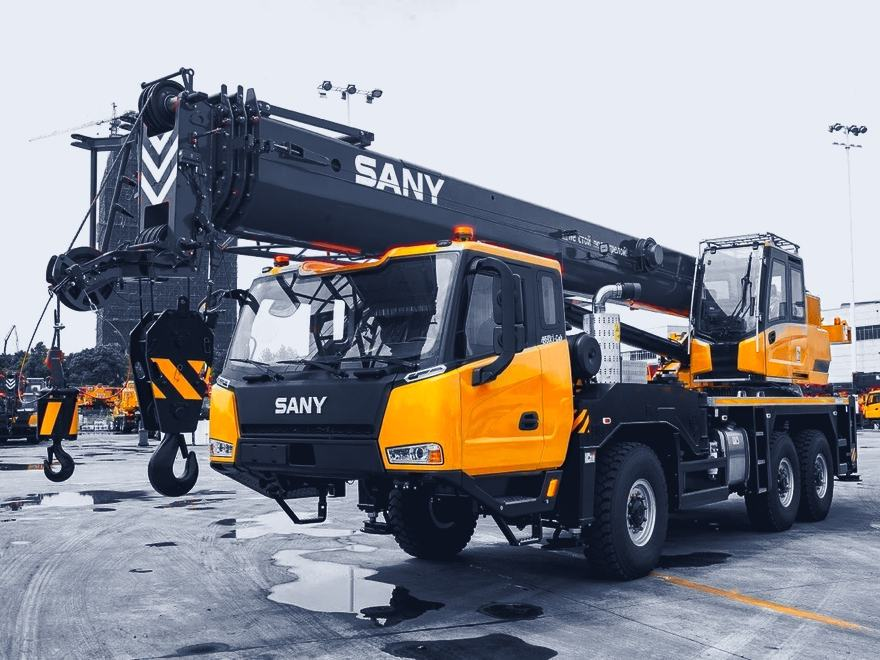
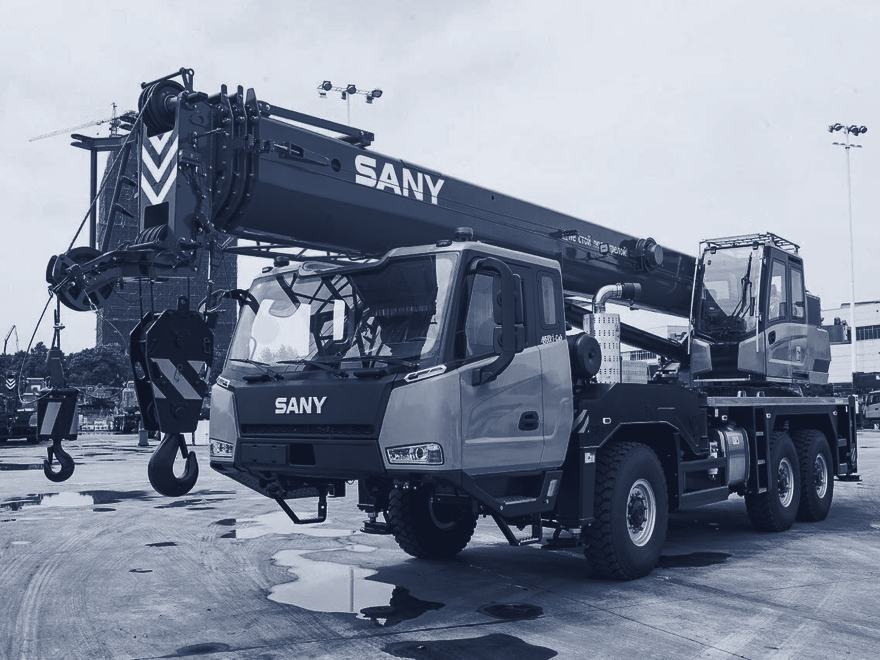
Правки 13.10 (2): единый тон фото, логотип по низу знака, подпись роли, фото в кабинетах

diff --git a/src/pages/crm/Dashboard.tsx b/src/pages/crm/Dashboard.tsx
@@ -3,7 +3,7 @@ import { useNavigate } from 'react-router-dom'
 import { AlertOctagon, AlertTriangle, ArrowRight, Bell, CalendarDays, Fuel, Handshake, Info, Plus, Truck, Users, Wallet, Wrench } from 'lucide-react'
 import type { CrmPageProps } from './types'
 import { isAdmin } from './types'
-import { Avatar, BarChart, Donut, Field, Modal, PageHead, Progress, Stat, StatusBadge, dateShort, money, time, useToast } from '../../ui'
+import { Avatar, BarChart, Donut, Field, Modal, PageHead, Progress, Stat, StatusBadge, dateShort, money, time, useToast, equipmentPhoto } from '../../ui'
 import { company, drivers, emp, eq, equipment, managers, orders, site } from '../../data/mock'
 import { calendar, crmEqStatus, expenseItems, finMonths, fuelReqs, notices, toRequests, userByRole, type CalEvent } from '../../data/crm-a'
 import './crm-a.css'
@@ -43,7 +43,7 @@ export default function Dashboard({ role }: CrmPageProps) {
 
   return (
     <div className="stack">
-      <PageHead title="Дашборд" sub={`Вторник, 13 октября 2026 · ${me.name.split(' ').slice(0, 2).join(' ')}`}
+      <PageHead photo={equipmentPhoto('crane', 'crm')} title="Дашборд" sub={`Вторник, 13 октября 2026 · ${me.name.split(' ').slice(0, 2).join(' ')}`}
         actions={<><button className="btn btn-secondary" onClick={() => go('callcenter')}><Plus />Новая заявка</button><button className="btn btn-primary" onClick={() => go('equipment')}><Truck />Назначить технику</button></>} />
 
       <div className="ca-stats">
@@ -62,7 +62,7 @@ export default function Dashboard({ role }: CrmPageProps) {
                 const c = company(o.clientId)
                 return (
                   <div key={o.id} className="ca-li click" onClick={() => go('tenants')}>
-                    <span className="mono muted hide-mobile" style={{ fontSize: 12, width: 60 }}>{o.number}</span>
+                    <img className="eq-thumb" src={equipmentPhoto(eq(o.equipmentId)?.category ?? 'excavator', o.equipmentId)} alt="" />
                     <div className="grow"><div className="t">{eq(o.equipmentId)?.title} → {site(o.siteId)?.name}</div><div className="s">{c?.name} · {emp(o.driverId)?.name.split(' ').slice(0, 2).join(' ')} · {dateShort(o.date)}, {o.start}</div></div>
                     {c?.critical && <span className="ca-flag hide-mobile"><AlertTriangle />долг</span>}
                     <span className="tnum" style={{ fontWeight: 600 }}>{money(o.cost)}</span>

diff --git a/src/pages/partner/Dashboard.tsx b/src/pages/partner/Dashboard.tsx
@@ -1,6 +1,6 @@
 import { Link, useNavigate } from 'react-router-dom'
 import { ArrowRight, CalendarClock, Gauge, Plus, Truck, Wallet } from 'lucide-react'
-import { Avatar, DataTable, Donut, EquipmentArt, LineChart, PageHead, Progress, Sparkline, Stat, StatusBadge, dateShort, money, plural, type Col } from '../../ui'
+import { Avatar, DataTable, Donut, EquipmentArt, LineChart, PageHead, Progress, Sparkline, Stat, StatusBadge, dateShort, money, plural, type Col, brandPhoto, EqThumb } from '../../ui'
 import { partnerDrivers, partnerRevenue, type PartnerDriver } from '../../data/cabinet'
 import { payoutBalance, usePartner } from './ctx'
 import { inService, loadOf, revenueOf, trendOf } from './util'
@@ -21,7 +21,7 @@ export default function Dashboard() {
 
   const dcols: Col<PartnerDriver>[] = [
     { key: 'n', title: 'Водитель', render: (d) => <div className="row" style={{ gap: 10, flexWrap: 'nowrap' }}><Avatar name={d.name} size="sm" /><div><div style={{ fontWeight: 600 }}>{d.name}</div><div className="muted" style={{ fontSize: 12 }}>{d.phone}</div></div></div> },
-    { key: 'e', title: 'Техника', render: (d) => eqs.find((e) => e.id === d.equipmentId)?.title ?? '—', hideMobile: true },
+    { key: 'e', title: 'Техника', render: (d) => { const e = eqs.find((x) => x.id === d.equipmentId); return <EqThumb eq={e}>{e?.title ?? '—'}</EqThumb> }, hideMobile: true },
     { key: 'o', title: 'Заказы', render: (d) => <span className="tnum">{d.orders}</span>, align: 'r' },
     { key: 'r', title: 'Рейтинг', render: (d) => <b className="tnum">★ {d.rating.toFixed(1)}</b>, align: 'r', nowrap: true },
     { key: 'a', title: 'Адрес сейчас', render: (d) => <span className="dim" style={{ fontSize: 13 }}>{d.address}</span>, hideMobile: true },
@@ -30,7 +30,7 @@ export default function Dashboard() {
 
   return (
     <>
-      <PageHead title="Добрый день, Игорь Михайлович" sub="ООО «ТехноПарк Аренда» · партнёр Гиперок с 2024 года · рейтинг ★ 4.9"
+      <PageHead photo={brandPhoto('owners')} title="Добрый день, Игорь Михайлович" sub="ООО «ТехноПарк Аренда» · партнёр Гиперок с 2024 года · рейтинг ★ 4.9"
         actions={<button className="btn btn-primary" onClick={() => nav('/partner/equipment?add=1')}><Plus />Добавить технику</button>} />
 
       <div className="grid g4">

diff --git a/src/pages/crm/Trips.tsx b/src/pages/crm/Trips.tsx
@@ -2,8 +2,7 @@ import { useMemo, useState } from 'react'
 import { AlertTriangle, CalendarClock, FileText, MapPin, Plus, Repeat, ShieldAlert, Star, Truck, UserCheck, Wrench } from 'lucide-react'
 import {
   Badge, DataTable, Drawer, Field, KV, Modal, PageHead, SearchInput, Seg, Stat, StatusBadge, Tabs,
-  date, dateShort, money, num, uid, useList, useToast, type Col,
-} from '../../ui'
+  date, dateShort, money, num, uid, useList, useToast, type Col, EqThumb } from '../../ui'
 import { categoryOne, workMode } from '../../data/types'
 import { emp, eq, equipment, site, sites, TODAY } from '../../data/mock'
 import { activeDrivers, isWeekend, modeMeta, trips as seed, tripEnd, type Attendance, type Trip, type TripMode, type TripStatus } from '../../data/crm-b'
@@ -61,7 +60,7 @@ export default function Trips({ role }: CrmPageProps) {
       <div><div className="cb-cell-main tnum">{dateShort(t.date)}{t.weekend && <span style={{ marginLeft: 6 }}><Badge tone="warn" plain>вых.</Badge></span>}</div>
         <div className="cb-cell-sub tnum">{t.mode === 'вахта' ? `с ${t.start}, ${t.days} дн.` : `${t.start}–${t.end}`}</div></div>
     ) },
-    { key: 'e', title: 'Техника', render: (t) => { const e = eq(t.equipmentId)!; return <div><div className="cb-cell-main">{e.title}</div><div className="cb-cell-sub">{categoryOne[e.category]} · <span className="mono">{e.plate}</span>{e.own ? '' : ' · привлечённая'}</div></div> } },
+    { key: 'e', title: 'Техника', render: (t) => { const e = eq(t.equipmentId)!; return <EqThumb eq={e}><div className="cb-cell-main">{e.title}</div><div className="cb-cell-sub">{categoryOne[e.category]} · <span className="mono">{e.plate}</span>{e.own ? '' : ' · привлечённая'}</div></EqThumb> } },
     { key: 'dr', title: 'Водитель', render: (t) => <div><div style={{ whiteSpace: 'nowrap' }}>{shortName(emp(t.driverId)?.name ?? '—')}</div><Badge tone={attTone[t.attendance]}>{t.attendance}</Badge></div> },
     { key: 's', title: 'Объект', hideMobile: true, render: (t) => { const s = site(t.siteId); return <div><div className="cb-cell-main">{s?.name}</div><div className="cb-cell-sub">{s?.address}</div></div> } },
     { key: 'h', title: 'Длительность', nowrap: true, hideMobile: true, render: (t) => <span className="tnum">{duration(t)}</span> },

diff --git a/src/layouts/Logo.tsx b/src/layouts/Logo.tsx
@@ -10,16 +10,21 @@ export function BrandMark({ size = 32, className }: { size?: number; className?:
   )
 }
 
-/* Название и подпись набраны одной ширины, как в брендбуке: textLength растягивает межбуквенный интервал. */
+/* Знак и надпись в одной системе координат: «ГИПЕРОК» начинается по верху слона, подпись стоит по его низу,
+   ширина названия и подписи одинаковая (textLength растягивает межбуквенный интервал). */
+const MARK = 40
+const GAP = 10
 const W = 176
 
-export function Logo({ inverted, to = '/', sub = true }: { inverted?: boolean; to?: string; sub?: boolean }) {
+export function Logo({ inverted, to = '/' }: { inverted?: boolean; to?: string }) {
   return (
     <Link to={to} className={`logo ${inverted ? 'inv' : ''}`} aria-label="Гиперок — на главную">
-      <BrandMark size={40} className="logo-mark" />
-      <svg className="logo-word" viewBox={`0 0 ${W} ${sub ? 40 : 28}`} width={W} height={sub ? 40 : 28} aria-hidden>
-        <text x="0" y="25" textLength={W} lengthAdjust="spacing" className="logo-name">ГИПЕРОК</text>
-        {sub && <text x="0" y="38" textLength={W} lengthAdjust="spacing" className="logo-sub">АРЕНДА СПЕЦТЕХНИКИ И ГРУЗОПЕРЕВОЗКИ</text>}
+      <svg className="logo-svg" viewBox={`0 0 ${MARK + GAP + W} ${MARK}`} width={MARK + GAP + W} height={MARK} aria-hidden>
+        <svg x="0" y="0" width={MARK} height={MARK} viewBox={MARK_VIEWBOX} className="logo-mark">
+          <path d={MARK_PATH} fill="currentColor" fillRule="evenodd" />
+        </svg>
+        <text x={MARK + GAP} y="24.6" textLength={W} lengthAdjust="spacing" className="logo-name">ГИПЕРОК</text>
+        <text x={MARK + GAP} y="39.6" textLength={W} lengthAdjust="spacing" className="logo-sub">АРЕНДА СПЕЦТЕХНИКИ И ГРУЗОПЕРЕВОЗКИ</text>
       </svg>
     </Link>
   )

diff --git a/src/styles/components.css b/src/styles/components.css
@@ -188,3 +188,27 @@
 /* ---------- Charts ---------- */
 .chart text { fill: var(--fg-3); font-size: 11px; font-family: var(--font-body); }
 .chart .grid-line { stroke: var(--line); }
+
+/* Фото-шапка дашбордов: синий блок, справа фото техники в фирменном тоне */
+.page-hero { position: relative; display: grid; grid-template-columns: minmax(0, 1fr) minmax(0, 46%); min-height: 184px; margin-bottom: 20px;
+  background: var(--ink); color: var(--ink-fg); border-radius: var(--r-lg); overflow: hidden; isolation: isolate; }
+.page-hero-body { padding: 28px 30px; display: flex; flex-direction: column; justify-content: center; gap: 6px; z-index: 1; }
+.page-hero h1 { font-size: clamp(22px, 2.6vw, 30px); font-weight: 700; color: inherit; }
+.page-hero p { color: var(--ink-fg-2); }
+.page-hero-actions { margin-top: 14px; }
+.page-hero-actions .btn-primary { background: var(--accent); color: #0f1626; }
+.page-hero-actions .btn-secondary { background: transparent; color: var(--ink-fg); border-color: color-mix(in srgb, var(--ink-fg) 28%, transparent); }
+.page-hero-photo { position: relative; }
+.page-hero-photo img { position: absolute; inset: 0; width: 100%; height: 100%; object-fit: cover; }
+.page-hero-photo::before { content: ''; position: absolute; inset: 0; z-index: 1; background: linear-gradient(90deg, var(--ink) 0%, color-mix(in srgb, var(--ink) 0%, transparent) 42%); }
+@media (max-width: 760px) {
+  .page-hero { grid-template-columns: 1fr; }
+  .page-hero-photo { height: 150px; order: -1; }
+  .page-hero-photo::before { background: linear-gradient(0deg, var(--ink) 0%, transparent 60%); }
+  .page-hero-body { padding: 4px 20px 22px; }
+}
+
+/* Миниатюры техники в таблицах */
+.eq-thumb-cell { display: inline-flex; align-items: center; gap: 10px; min-width: 0; }
+.eq-thumb { width: 52px; height: 39px; flex: none; object-fit: cover; border-radius: 8px; background: var(--surface-3); }
+.eq-thumb-t { min-width: 0; }

diff --git a/src/pages/crm/Equipment.tsx b/src/pages/crm/Equipment.tsx
@@ -4,8 +4,7 @@ import type { CrmPageProps, CrmRole } from './types'
 import { isAdmin } from './types'
 import {
   DataTable, Drawer, EquipmentArt, Field, KV, Modal, PageHead, Progress, SearchInput, Seg, Stat, StatusBadge, Tabs,
-  date, dateShort, money, num, time, uid, useList, useToast, type Col,
-} from '../../ui'
+  date, dateShort, money, num, time, uid, useList, useToast, type Col, EqThumb } from '../../ui'
 import { companies, company, drivers, emp, equipment, site, sites } from '../../data/mock'
 import { categoryLabels, categoryOne, type Equipment, type EquipmentCategory } from '../../data/types'
 import { crmEqStatus, eqFinance, eqNotes, repairs, toRequests, type ToDecision, type ToRequest } from '../../data/crm-a'
@@ -193,7 +192,7 @@ export default function EquipmentPage({ role }: CrmPageProps) {
   const toRows = tos.rows.filter((t) => t.stage === toTab)
   const toCols: Col<ToRequest>[] = [
     { key: 'd', title: 'Дата', nowrap: true, render: (t) => <span className="tnum">{dateShort(t.created)}, {time(t.created)}</span> },
-    { key: 'e', title: 'Техника', render: (t) => { const e = list.rows.find((x) => x.id === t.eqId); return <div><b>{e?.title}</b><div className="muted mono" style={{ fontSize: 12 }}>{e?.plate}</div></div> } },
+    { key: 'e', title: 'Техника', render: (t) => { const e = list.rows.find((x) => x.id === t.eqId); return <EqThumb eq={e}><b>{e?.title}</b><div className="muted mono" style={{ fontSize: 12 }}>{e?.plate}</div></EqThumb> } },
     { key: 'p', title: 'Проблема', hideMobile: true, render: (t) => <span style={{ fontSize: 13 }}>{t.problem}</span> },
     { key: 'u', title: 'Срочность', render: (t) => <span className={`badge ${t.urgency === 'Аварийно' ? 'badge-bad' : t.urgency === 'Срочно' ? 'badge-warn' : 'badge-info'}`}>{t.urgency}</span> },
     { key: 'm', title: 'Механик', hideMobile: true, render: (t) => emp(t.mechanicId)?.name.split(' ').slice(0, 2).join(' ') },

diff --git a/src/pages/crm/Accounting.tsx b/src/pages/crm/Accounting.tsx
@@ -5,8 +5,7 @@ import {
 } from 'lucide-react'
 import {
   Badge, BarChart, DataTable, Donut, Drawer, Field, KV, Modal, PageHead, Progress, SearchInput, Seg, Stat, StatusBadge, Tabs,
-  date, dateShort, money, num, uid, useList, useToast, type Col,
-} from '../../ui'
+  date, dateShort, money, num, uid, useList, useToast, type Col, EqThumb } from '../../ui'
 import { categoryOne } from '../../data/types'
 import { companies, company, emp, eq, site, TODAY } from '../../data/mock'
 import {
@@ -77,7 +76,7 @@ function IncomeTab({ rows, onOpen }: { rows: Deal[]; onOpen: (id: string) => voi
   const cols: Col<Deal>[] = [
     { key: 'n', title: 'Сделка', nowrap: true, render: (d) => <div><div className="mono cb-cell-main">{d.number}</div><div className="cb-cell-sub">{dateShort(d.date)}</div></div> },
     { key: 'c', title: 'Клиент / объект', render: (d) => <div><div className="cb-cell-main">{company(d.clientId)?.name}</div><div className="cb-cell-sub">{site(d.siteId)?.name}</div></div> },
-    { key: 'e', title: 'Техника', hideMobile: true, render: (d) => <div><div>{eq(d.equipmentId)?.title}</div><Badge tone={d.own ? 'info' : 'accent'}>{d.own ? 'своя' : 'привлечённая'}</Badge></div> },
+    { key: 'e', title: 'Техника', hideMobile: true, render: (d) => <EqThumb eq={eq(d.equipmentId)}><div>{eq(d.equipmentId)?.title}</div><Badge tone={d.own ? 'info' : 'accent'}>{d.own ? 'своя' : 'привлечённая'}</Badge></EqThumb> },
     { key: 'h', title: 'План / факт, ч', nowrap: true, hideMobile: true, render: (d) => <span className="tnum">{d.planHours} / <b className={d.factHours > d.planHours ? 'cb-pos' : d.factHours < d.planHours ? 'cb-neg' : ''}>{d.factHours}</b></span> },
     { key: 'i', title: 'Доход', align: 'r', nowrap: true, render: (d) => <b className="tnum">{money(dealIncome(d))}</b> },
     { key: 'p', title: 'Оплата', render: (d) => <StatusBadge status={d.pay} /> },

diff --git a/src/pages/crm/Fuel.tsx b/src/pages/crm/Fuel.tsx
@@ -1,7 +1,7 @@
 import { useState } from 'react'
 import { AlertTriangle, Ban, Camera, Check, CreditCard, Flag, Fuel as FuelIcon, Gauge, Plus, Search, X } from 'lucide-react'
 import type { CrmPageProps, CrmRole } from './types'
-import { DataTable, Drawer, Field, KV, Modal, PageHead, SearchInput, Stat, StatusBadge, Tabs, Badge, dateShort, money, num, time, uid, useList, useToast, type Col } from '../../ui'
+import { DataTable, Drawer, Field, KV, Modal, PageHead, SearchInput, Stat, StatusBadge, Tabs, Badge, dateShort, money, num, time, uid, useList, useToast, type Col, EqThumb } from '../../ui'
 import { drivers, emp, eq, equipment, site, sites } from '../../data/mock'
 import { categoryOne } from '../../data/types'
 import { FUEL_PRICE, fuelNorm, fuelReqs, fuelStage, type FuelReq, type FuelStage, type FuelStatus } from '../../data/crm-a'
@@ -43,7 +43,7 @@ export default function FuelPage({ role }: CrmPageProps) {
 
   const cols: Col<FuelReq>[] = [
     { key: 'd', title: 'Дата', nowrap: true, render: (f) => <div><b className="tnum">{dateShort(f.date)}</b><div className="muted tnum" style={{ fontSize: 12 }}>{time(f.date)}</div></div> },
-    { key: 'e', title: 'Техника', render: (f) => { const e = eq(f.eqId); return <div><b>{e?.title}</b><div className="muted mono" style={{ fontSize: 12 }}>{e?.plate}</div></div> } },
+    { key: 'e', title: 'Техника', render: (f) => { const e = eq(f.eqId); return <EqThumb eq={e}><b>{e?.title}</b><div className="muted mono" style={{ fontSize: 12 }}>{e?.plate}</div></EqThumb> } },
     { key: 'dr', title: 'Водитель', hideMobile: true, render: (f) => short(emp(f.driverId)?.name) },
     { key: 'l', title: 'Литры', align: 'r', render: (f) => <span className="tnum">{f.liters} л</span> },
     { key: 'c', title: 'Стоимость', align: 'r', hideMobile: true, render: (f) => <span className="tnum">{money(f.liters * f.price)}</span> },

diff --git a/src/layouts/shell.css b/src/layouts/shell.css
@@ -1,11 +1,11 @@
-.logo { display: inline-flex; align-items: flex-end; gap: 10px; text-decoration: none; color: var(--fg); }
-.logo-mark { color: var(--accent); flex: none; }
-.logo-word { display: block; overflow: visible; }
-.logo-name { font: 700 31px var(--font-display); fill: currentColor; }
-.logo-sub { font: 500 7.2px var(--font-body); fill: var(--fg-3); }
+.logo { display: inline-flex; text-decoration: none; color: var(--fg); line-height: 0; }
+.logo-svg { display: block; overflow: visible; }
+.logo-mark { color: var(--accent); }
+.logo-name { font: 700 33px var(--font-display); fill: currentColor; }
+.logo-sub { font: 500 7.4px var(--font-body); fill: var(--fg-3); }
 .logo.inv { color: var(--ink-fg); }
 .logo.inv .logo-sub { fill: var(--ink-fg-2); }
-@media (max-width: 480px) { .logo-word { width: 124px; height: auto; } .logo-mark { width: 30px; height: 30px; } .logo { gap: 7px; } }
+@media (max-width: 480px) { .logo-svg { width: 170px; height: auto; } }
 
 .shell { display: flex; min-height: 100%; }
 .side {
@@ -15,7 +15,7 @@
 
 .side-top { display: flex; align-items: center; justify-content: space-between; padding: 18px 18px 10px; }
 .side-close { display: none; color: var(--fg-3); }
-.side-area { margin: 6px 18px 12px; font-size: 11px; font-weight: 600; letter-spacing: .16em; text-transform: uppercase; color: var(--accent-strong); }
+.side-area { margin: 4px 18px 14px 32px; font-size: 11px; font-weight: 600; letter-spacing: .16em; text-transform: uppercase; color: var(--accent-strong); }
 .side-nav { flex: 1; overflow-y: auto; padding: 4px 10px 16px; scrollbar-width: thin; scrollbar-color: var(--line-strong) transparent; }
 .side-group + .side-group { margin-top: 14px; }
 .side-title { font-size: 10.5px; font-weight: 500; letter-spacing: .14em; text-transform: uppercase; color: var(--fg-3); padding: 6px 10px; opacity: .8; }

diff --git a/src/pages/partner/Payments.tsx b/src/pages/partner/Payments.tsx
@@ -1,6 +1,6 @@
 import { useMemo, useState } from 'react'
 import { AlertTriangle, ArrowDownToLine, BellRing, Download, FileText, Paperclip, Upload, Wallet } from 'lucide-react'
-import { DataTable, Drawer, Field, KV, Modal, PageHead, Progress, SearchInput, Seg, Stat, StatusBadge, Tabs, date, money, useToast, type Col } from '../../ui'
+import { DataTable, Drawer, Field, KV, Modal, PageHead, Progress, SearchInput, Seg, Stat, StatusBadge, Tabs, date, money, useToast, type Col, EqThumb } from '../../ui'
 import type { Deal, Payout } from '../../data/cabinet'
 import { payoutBalance, usePartner } from './ctx'
 
@@ -36,7 +36,7 @@ export default function Payments() {
     { key: 'n', title: 'Сделка', render: (d) => <b className="mono">{d.number}</b>, nowrap: true },
     { key: 'd', title: 'Дата', render: (d) => <span className="tnum">{date(d.date)}</span>, nowrap: true, hideMobile: true },
     { key: 'c', title: 'Клиент', render: (d) => d.client },
-    { key: 'e', title: 'Техника', render: (d) => <span className="dim">{eqTitle(d.equipmentId)}</span>, hideMobile: true },
+    { key: 'e', title: 'Техника', render: (d) => <EqThumb eq={p.equipment.find((e) => e.id === d.equipmentId)}><span className="dim">{eqTitle(d.equipmentId)}</span></EqThumb>, hideMobile: true },
     { key: 'a', title: 'Сумма', render: (d) => <span className="tnum">{money(d.amount)}</span>, align: 'r', nowrap: true },
     { key: 'f', title: 'Комиссия', render: (d) => <span className="tnum muted">−{money(d.fee)}</span>, align: 'r', nowrap: true, hideMobile: true },
     { key: 'p', title: 'Оплачено', render: (d) => <span className="tnum">{money(d.paid)}</span>, align: 'r', nowrap: true, hideMobile: true },

diff --git a/src/pages/client/Orders.tsx b/src/pages/client/Orders.tsx
@@ -1,7 +1,7 @@
 import { useMemo, useState } from 'react'
 import { useNavigate, useSearchParams } from 'react-router-dom'
 import { Ban, CreditCard, Download, FileText, MessagesSquare, Plus, Repeat2, Star } from 'lucide-react'
-import { DataTable, Drawer, EquipmentArt, KV, PageHead, SearchInput, Stat, StatusBadge, Tabs, date, money, plural, useToast, type Col } from '../../ui'
+import { DataTable, Drawer, EquipmentArt, KV, PageHead, SearchInput, Stat, StatusBadge, Tabs, date, money, plural, useToast, type Col, EqThumb } from '../../ui'
 import { emp } from '../../data/mock'
 import type { Order } from '../../data/types'
 import { clientSite, partnerDriver } from '../../data/cabinet'
@@ -44,7 +44,7 @@ export default function Orders() {
   const cols: Col<Order>[] = [
     { key: 'n', title: '№', render: (o) => <b className="mono">{o.number}</b>, nowrap: true },
     { key: 'd', title: 'Дата', render: (o) => <span className="tnum">{date(o.date)}<span className="muted"> · {o.start}</span></span>, nowrap: true },
-    { key: 'e', title: 'Техника', render: (o) => <span style={{ fontWeight: 500 }}>{findEq(o.equipmentId)?.title}</span> },
+    { key: 'e', title: 'Техника', render: (o) => <EqThumb eq={findEq(o.equipmentId)}><span style={{ fontWeight: 500 }}>{findEq(o.equipmentId)?.title}</span></EqThumb> },
     { key: 's', title: 'Объект', render: (o) => clientSite(o.siteId)?.name, hideMobile: true },
     { key: 'h', title: 'Часы', render: (o) => <span className="tnum">{o.hours}</span>, align: 'r', hideMobile: true },
     { key: 'c', title: 'Сумма', render: (o) => <b className="tnum">{money(o.cost)}</b>, align: 'r', nowrap: true },

diff --git a/src/pages/partner/Orders.tsx b/src/pages/partner/Orders.tsx
@@ -1,7 +1,7 @@
 import { useMemo, useState } from 'react'
 import { useSearchParams } from 'react-router-dom'
 import { BellRing, Check, CheckCheck, Download, FileText, Send, X } from 'lucide-react'
-import { DataTable, Drawer, EquipmentArt, Field, KV, Modal, PageHead, SearchInput, Stat, StatusBadge, Tabs, date, money, useToast, type Col } from '../../ui'
+import { DataTable, Drawer, EquipmentArt, Field, KV, Modal, PageHead, SearchInput, Stat, StatusBadge, Tabs, date, money, useToast, type Col, EqThumb } from '../../ui'
 import { partnerDriver, partnerDrivers, type PartnerOrder, type PartnerOrderStatus } from '../../data/cabinet'
 import { usePartner } from './ctx'
 
@@ -33,7 +33,7 @@ export default function Orders() {
   const cols: Col<PartnerOrder>[] = [
     { key: 'n', title: '№', render: (o) => <b className="mono">{o.number}</b>, nowrap: true },
     { key: 'd', title: 'Дата', render: (o) => <span className="tnum">{date(o.date)}<span className="muted"> · {o.start}</span></span>, nowrap: true },
-    { key: 'e', title: 'Техника', render: (o) => <span style={{ fontWeight: 500 }}>{eqOf(o.equipmentId)?.title}</span> },
+    { key: 'e', title: 'Техника', render: (o) => <EqThumb eq={eqOf(o.equipmentId)}><span style={{ fontWeight: 500 }}>{eqOf(o.equipmentId)?.title}</span></EqThumb> },
     { key: 'c', title: 'Клиент', render: (o) => o.client, hideMobile: true },
     { key: 's', title: 'Объект', render: (o) => <span className="dim">{o.site}</span>, hideMobile: true },
     { key: 'h', title: 'Часы', render: (o) => <span className="tnum">{o.hours}</span>, align: 'r', hideMobile: true },
